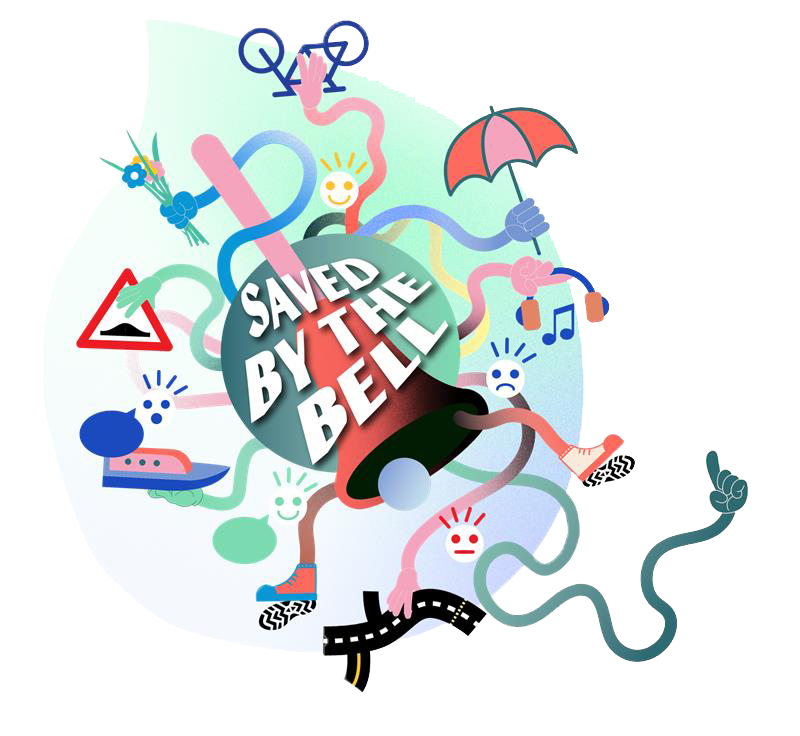
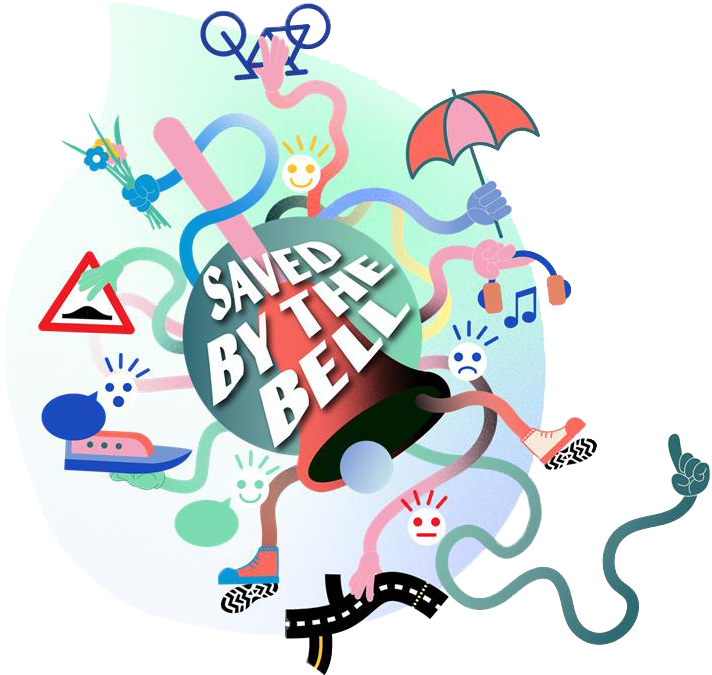
image update

diff --git a/css/home.css b/css/home.css
@@ -220,10 +220,15 @@ ul li:nth-child(1) a {
 		background-size: 100% 85%;
 	}
 
-	.home-image img {
-		max-width: 230%;
+	.home-image {
+		padding-top: 6rem;
+		transform: rotate(15deg) translateX(-10%);
 		height: auto;
-		rotate: 30deg;
+	}
+
+	.home-image img {
+		max-width: 40vw;
+		width: 40rem;
 	}
 
 	.text-content {
@@ -283,7 +288,7 @@ ul li:nth-child(1) a {
 	}
 
 	header h1 {
-		font-size: 5rem;
+		font-size: 4rem;
 		line-height: 5rem;
 	}
 }

diff --git a/css/style.css b/css/style.css
@@ -280,7 +280,6 @@ form {
 	.header-container {
 		display: flex;
 		align-items: flex-start;
-		gap: 15rem;
 		z-index: 1;
 		margin-inline: 10%;
 	}
